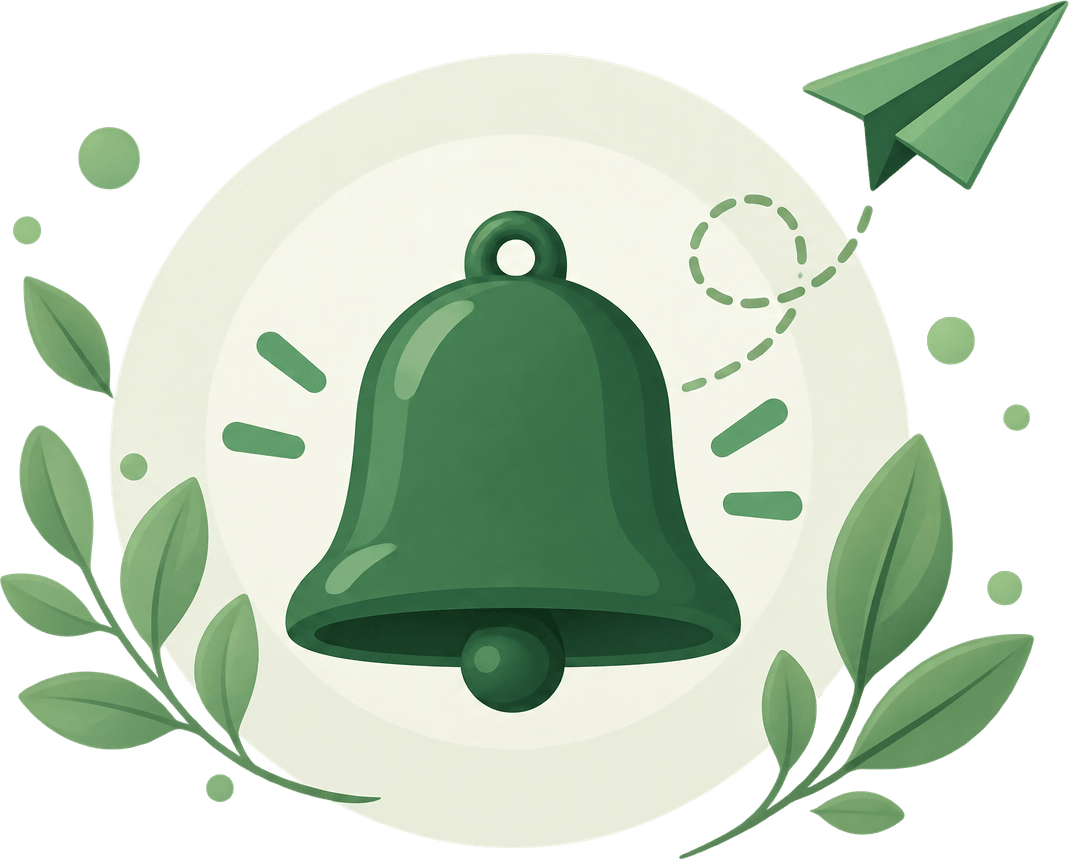
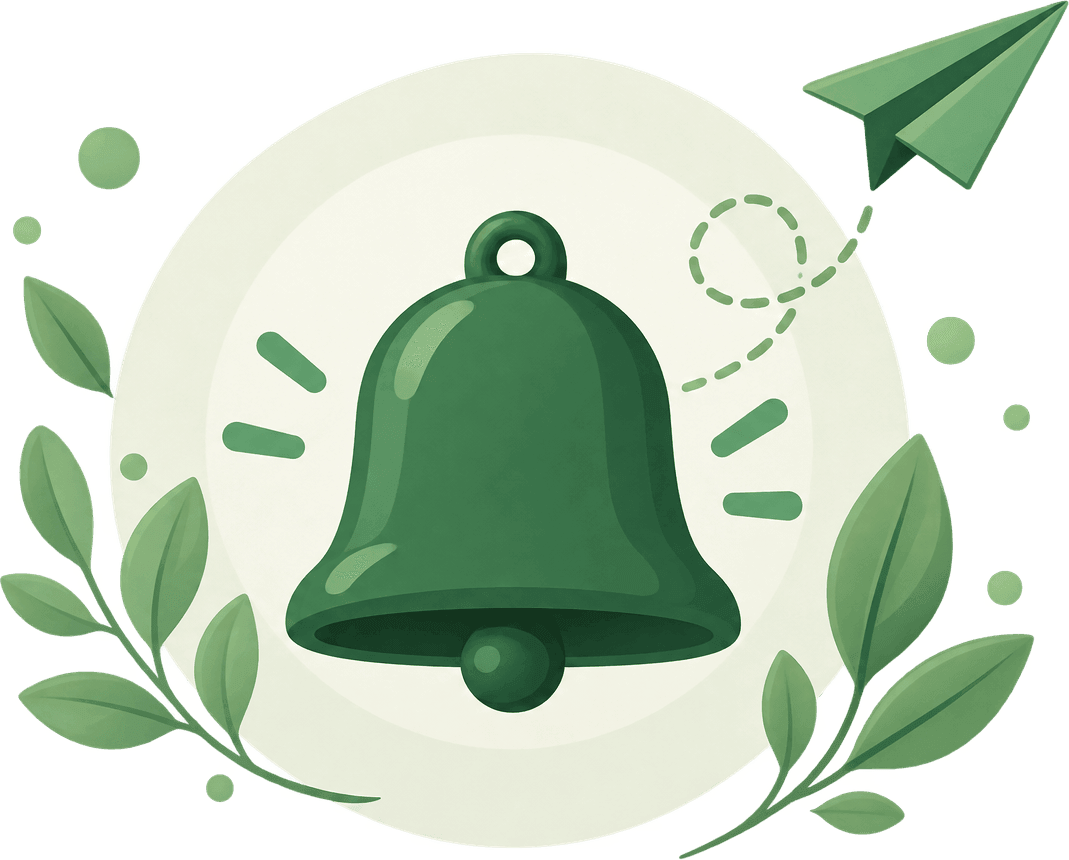
Fix illustrations: real transparent background via flood-fill, drop the dark card
The trim-only pass left the illustrations' opaque "glow on black" backdrop
intact, so they showed inside a dark rounded box instead of blending into
the page. A flood fill from the four edges (spreading only through dark
pixels) removes the connected black backdrop while leaving enclosed dark
regions - hair, dark trousers - untouched, since they're islands the fill
never reaches. Verified all 11 assets against a cream background before
shipping; no more washed-out hair like the earlier luminance-threshold
attempt. IllustrationCard now renders the image directly with no card
wrapper.

diff --git a/mobile/scripts/process-illustrations.js b/mobile/scripts/process-illustrations.js
@@ -1,22 +1,72 @@
-// Light, non-destructive pass: just trims the mostly-empty transparent
-// margin around each illustration (they're exported on a wide canvas with
-// a soft glow-on-black card - only the four corners are truly transparent,
-// so this doesn't remove much, but tightens the crop for consistent sizing
-// in the app). See README note in the chat history: full background
-// removal was attempted and reverted - flood-fill / luminance keying both
-// damaged dark hair and clothing because they're tonally continuous with
-// the black backdrop in this art style.
+// The hand-supplied illustrations are exported as an opaque "glow on black"
+// card (only the four rounded corners are truly transparent in the alpha
+// channel). A flat luminance threshold can't safely key out that black,
+// because dark hair/clothing sits at nearly the same brightness - but a
+// flood fill started from the four edges, spreading only through dark
+// pixels, works: it eats the connected black backdrop while leaving any
+// dark region that's fully enclosed by lighter art (hair, trousers) alone.
 const sharp = require("sharp");
 const fs = require("fs");
 const path = require("path");
 
 const DIR = path.join(__dirname, "..", "assets", "illustrations");
 const OUT_DIR = path.join(DIR, "processed");
+const DARK = 60; // luminance below this counts as "dark" for flood-fill purposes
+
+async function floodKeyBackground(inputPath) {
+  const { data, info } = await sharp(inputPath).ensureAlpha().raw().toBuffer({ resolveWithObject: true });
+  const { width, height, channels } = info;
+  const lum = new Float32Array(width * height);
+  for (let i = 0; i < width * height; i++) {
+    const o = i * channels;
+    lum[i] = 0.299 * data[o] + 0.587 * data[o + 1] + 0.114 * data[o + 2];
+  }
+
+  const isBg = new Uint8Array(width * height);
+  const visited = new Uint8Array(width * height);
+  const queue = new Int32Array(width * height);
+  let qHead = 0, qTail = 0;
+
+  const tryPush = (idx) => {
+    if (!visited[idx] && lum[idx] < DARK) {
+      visited[idx] = 1;
+      isBg[idx] = 1;
+      queue[qTail++] = idx;
+    }
+  };
+
+  for (let x = 0; x < width; x++) {
+    tryPush(x);
+    tryPush((height - 1) * width + x);
+  }
+  for (let y = 0; y < height; y++) {
+    tryPush(y * width);
+    tryPush(y * width + width - 1);
+  }
+
+  while (qHead < qTail) {
+    const idx = queue[qHead++];
+    const x = idx % width, y = (idx / width) | 0;
+    if (x > 0) tryPush(idx - 1);
+    if (x < width - 1) tryPush(idx + 1);
+    if (y > 0) tryPush(idx - width);
+    if (y < height - 1) tryPush(idx + width);
+  }
+
+  for (let i = 0; i < width * height; i++) {
+    if (isBg[i]) data[i * channels + 3] = 0;
+  }
+  return { data, info };
+}
 
 async function processOne(file) {
   const src = path.join(DIR, file);
+  const { data, info } = await floodKeyBackground(src);
+  const keyed = sharp(data, { raw: { width: info.width, height: info.height, channels: 4 } });
+  const trimmed = await keyed.png().trim({ threshold: 10 }).toBuffer();
+
   const outPath = path.join(OUT_DIR, file.toLowerCase().replace(/\s+/g, "-"));
-  await sharp(src).trim({ threshold: 10 }).png().toFile(outPath);
+  await sharp(trimmed).png({ compressionLevel: 9, palette: true, quality: 92 }).toFile(outPath);
   const meta = await sharp(outPath).metadata();
   console.log(file, "->", path.basename(outPath), meta.width, "x", meta.height);
 }

diff --git a/mobile/src/components/IllustrationCard.tsx b/mobile/src/components/IllustrationCard.tsx
@@ -1,31 +1,29 @@
 import React from "react";
-import { Image, ImageSourcePropType, StyleSheet, View } from "react-native";
-import { radii } from "../theme";
+import { Image, ImageSourcePropType, StyleSheet } from "react-native";
 
-// The supplied illustrations are exported on a dark "glow" card (only the
-// four corners are truly transparent - see scripts/process-illustrations.js
-// for why a clean cutout isn't possible without damaging dark hair/clothing
-// detail), so they're shown inside a matching near-black rounded card
-// rather than directly on light backgrounds.
+// The illustrations are processed (scripts/process-illustrations.js) to a
+// real transparent background via flood-fill, so they sit directly on
+// whatever's behind them - no card/backdrop needed.
 export default function IllustrationCard({
   source,
   width,
   aspectRatio,
-  rounded = radii.lg,
 }: {
   source: ImageSourcePropType;
   width: number;
   aspectRatio: number;
+  /** @deprecated no longer renders a card background; kept so existing call sites don't need edits. */
   rounded?: number;
 }) {
   return (
-    <View style={[styles.card, { width, height: width / aspectRatio, borderRadius: rounded }]}>
-      <Image source={source} style={styles.image} resizeMode="cover" />
-    </View>
+    <Image
+      source={source}
+      style={[styles.image, { width, height: width / aspectRatio }]}
+      resizeMode="contain"
+    />
   );
 }
 
 const styles = StyleSheet.create({
-  card: { backgroundColor: "#0B0F0C", overflow: "hidden" },
-  image: { width: "100%", height: "100%" },
+  image: {},
 });

diff --git a/mobile/src/screens/ProfileScreen.tsx b/mobile/src/screens/ProfileScreen.tsx
@@ -31,7 +31,7 @@ export default function ProfileScreen({ navigation }: any) {
     <ScrollView style={styles.container} contentContainerStyle={styles.content}>
       <WaveHeader
         contentStyle={styles.headerContent}
-        illustration={<Image source={HEADER_DECORATION} style={styles.headerDecoration} resizeMode="cover" />}
+        illustration={<Image source={HEADER_DECORATION} style={styles.headerDecoration} resizeMode="contain" />}
       >
         <AnimatedPressable style={styles.avatarWrap} onPress={() => navigation.navigate("EditProfile")}>
           <View style={styles.avatarRing}>
@@ -108,7 +108,7 @@ export default function ProfileScreen({ navigation }: any) {
 const styles = StyleSheet.create({
   container: { flex: 1, backgroundColor: colors.background },
   content: { paddingBottom: spacing.xl },
-  headerDecoration: { width: 100, height: 114, opacity: 0.4, borderRadius: radii.lg },
+  headerDecoration: { width: 100, height: 114, opacity: 0.55 },
   headerContent: { alignItems: "center" },
   avatarWrap: { marginBottom: spacing.sm },
   avatarRing: {
